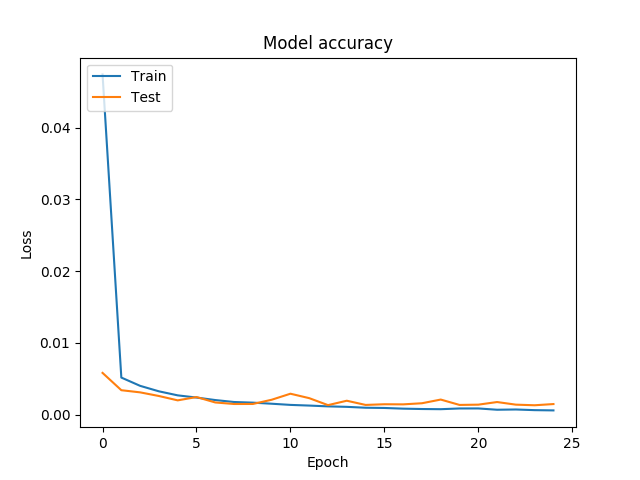
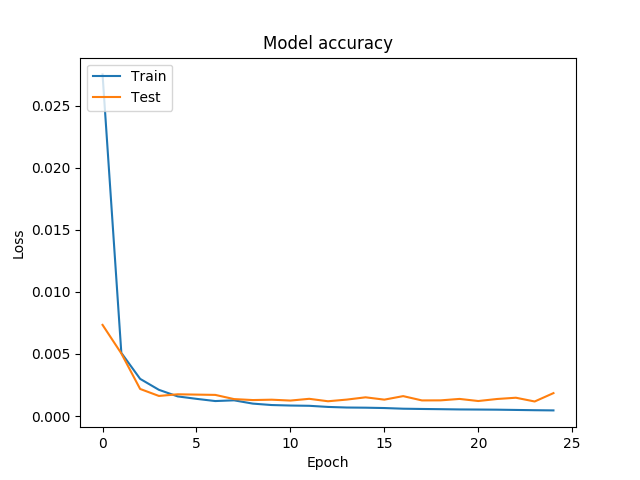
updating static images and templates

diff --git a/templates/about.html b/templates/about.html
@@ -56,7 +56,7 @@
        <h3>Objective</h3>
         <p>The purpose of this project is to use deep learning to train a network that can measure building density of areas that are currently poorly mapped by using geospatial data and satellite images as input. This model could then potentially be used to measure the growth or expansion of any given area by comparing historical images to current ones. This problem was chosen due to the interest of our team having taken GIS and machine learning courses while in the <a href="https://www.programs.gwu.edu/graduate/data-science">George Washington University Data Science Masters program</a>.
         </p>
-        
+
         <h3>Data</h3>
         <p>There were many potential data sources of satellite images that could be used for this task, including Esri images and opensource platform data such as OpenStreetMap. For training purposes, the scope of the area to train was narrowed to the DC, Maryland, and Virginia region. This provided more than enough data to train our network as a proof of concept, but if needed in the future there are methods to generate more images off the original sources. In addition to unstructured satellite image data, we leveraged structured building coverage maps to help generate building density labels for the images. The building coverage maps we used were generated and open sourced by Microsoft for the entire United States and are available online as geoJSONs. To read more about the techniques they used to generate 125,192,184 building shapes, visit <a href="https://github.com/microsoft/USBuildingFootprints">this Github link</a>.
         </p>
@@ -65,9 +65,10 @@
         <h3>Tools Used</h3>
         <p>This project leveraged a number of technologies and libraries during the preparation, analysis and presentation phase. The project is presented in the form of an interactive <a href="../">HTML page</a> using Python Flask, Bootstrap, CSS, and client-side JavaScript. It also leveraged a custom scraping and retrieval framework with Python, GeoPandas, Folium, Selenium and the Requests library for data retrieval and processing. Model training and image augmentation leveraged Tensorflow, Keras and OpenCV computer vision libraries. Source code management leveraged GitHub and Visual Studio Code.
         </p>
+        <p><img src="{{ url_for('static', filename='scatter.png') }}" class="img-fluid" alt="Imagery Distribution" title="Imagery Distribution"></p>
 
         <h3>Network and Framework Selection</h3>
-        <p>We opted to use a Convolutional Neural Network (CNN) due to its strengths in image processing and pattern recognition in addition to experimenting with Multi-Layer Perceptron (MLP) for benchmarking and comparison. While the plan started with a standard CNN, we implemented additional customizations to improve performance. We used the Keras framework to create the CNN network with Tensorflow as the back-end. We took roughly 9,000 training images and augmented them through 90, 180, 270 degree rotations and flips, creating over 50,000 augmented images and then ran them through multiple convolutional layers with fully connected layers with regularization, pooling and dropout to prevent overfitting against the training data. We used model checkpointing against validation loss using mean square error.
+        <p>We opted to use a Convolutional Neural Network (CNN) due to its strengths in image processing and pattern recognition in addition to experimenting with Multi-Layer Perceptron (MLP) for benchmarking and comparison. While the plan started with a standard CNN, we implemented additional customizations to improve performance. We used the Keras framework to create the CNN network with Tensorflow as the back-end. We took roughly 9,000 training images and augmented them through 90, 180, 270 degree rotations and flips, creating over 50,000 augmented images and then ran them through multiple convolutional layers with fully connected layers with regularization, pooling and dropout to prevent overfitting against the training data. We used model checkpointing against validation loss using mean square error. While we pulled data from across DC, Maryland and Virginia, we upsampled urban areas to get a more even training distribution, and split our training and validation set geographically to prevent contamination from overlapping images.
         </p>
 
         <p><img src="{{ url_for('static', filename='cnnloss.png') }}" class="img-fluid" alt="CNN Loss" title="CNN Loss"></p>
